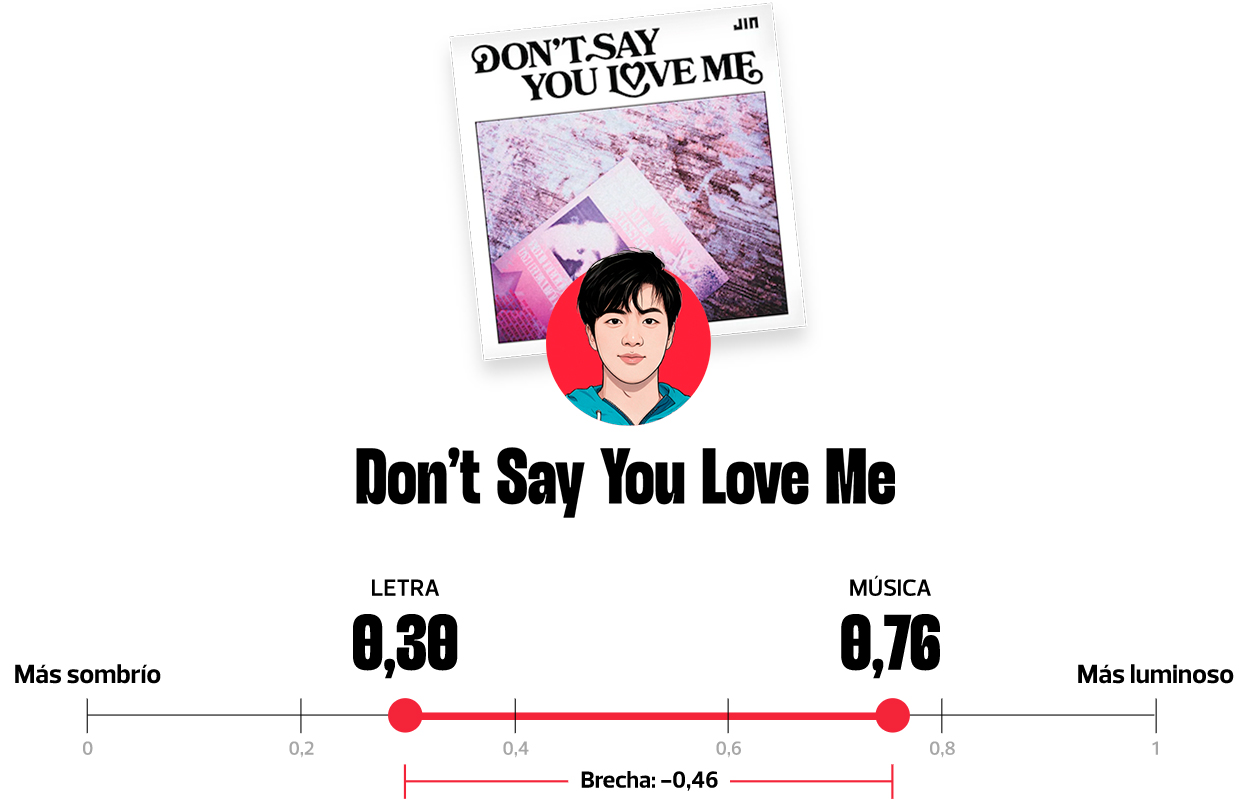
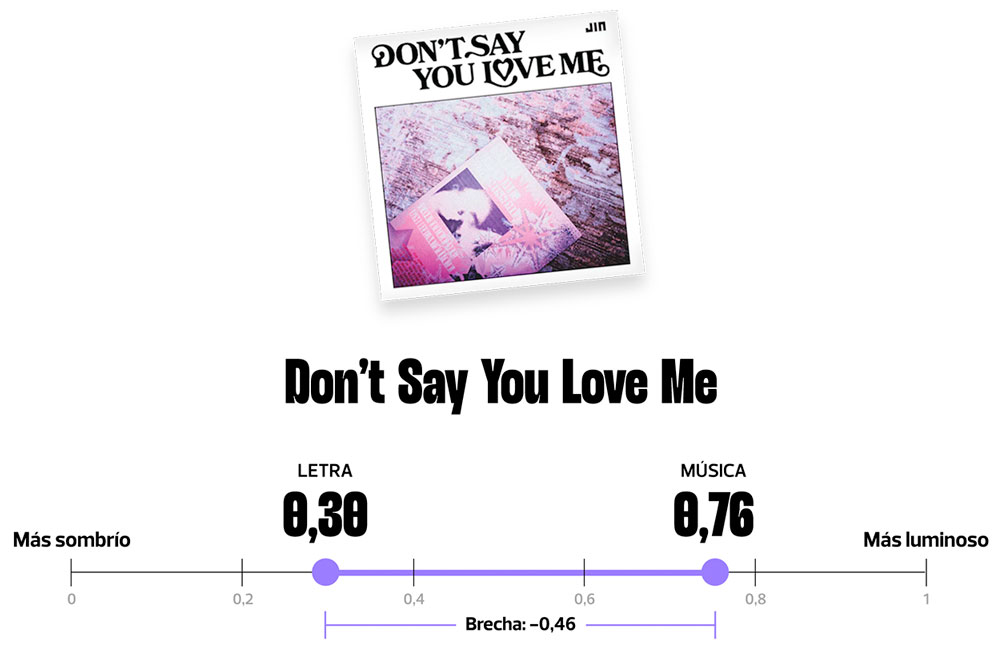
update

diff --git a/index-bts.html b/index-bts.html
@@ -539,18 +539,30 @@
                 <p>
                     En Don’t Say You Love Me, de Jin, la música suena mucho más luminosa que la letra. En nuestra escala, el sonido alcanza 0,76 y la letra 0,30. La diferencia entre ambos deja una brecha de −0,46.
                 </p>
+
+                <div class="desplegables-radiografia desplegable-sonido">
+                    <details class="desplegable">
+                        <summary>
+                            <span>¿Cómo lo medimos?</span>
+                            <svg class="desplegable-flecha" viewBox="0 0 24 24" aria-hidden="true"><path fill="none" stroke="currentColor" stroke-width="2.4" stroke-linecap="round" stroke-linejoin="round" d="M6 9l6 6 6-6"/></svg>
+                        </summary>
+                        <div class="desplegable-panel">
+                            <p>Para la música usamos valence de Spotify, que estima en una escala de 0 a 1 qué tan luminosa suena una pista. Para la letra aplicamos una clasificación semántica con IA en la misma escala. La brecha es la diferencia entre ambos valores: en este caso, 0,30 − 0,76 = −0,46. Un resultado negativo indica que la música fue clasificada como más luminosa que la letra.</p>
+                        </div>
+                    </details>
+                </div>
+
                 <img src="./img/bg-cancion-capas.jpg" alt="" width="100%" class="bg-cancion-capas">
                 <div class="box-disclaimer-lineal">
                     <p>
-                        La música resulta considerablemente <span class="red">más luminosa</span> que el tono detectado en su letra.
+                        Aquí está la tensión: la letra tiene un tono más sombrío y la música uno mucho más luminoso. <span class="lila">“Sombrío” indica menor luminosidad emocional, no una valoración negativa.</span>
                     </p>
                 </div>
-                <h6>¿Cómo lo medimos?</h6>
                 <!-- En escritorio se ven los 3 en línea (tal cual antes). En
                      móvil (≤560px) esto se vuelve un carrusel de a un ítem
                      con flechas: ver carousel-medida en css/styles.css y
                      js/carrusel-medida.js. -->
-                <div class="carousel-medida">
+                <div class="carousel-medida" style="display: none;">
                     <button class="carousel-arrow carousel-arrow--prev" type="button" aria-label="Ver medida anterior">
                         <svg viewBox="0 0 24 24" aria-hidden="true"><path fill="none" stroke="currentColor" stroke-width="2.4" stroke-linecap="round" stroke-linejoin="round" d="M15 6l-6 6 6 6"/></svg>
                     </button>
@@ -590,65 +602,18 @@
             </div>
             <div class="ctn-box-analisis-cancion">
                 <h4>
-                    <i></i>¿Es solo una canción?
+                    <i></i>¿Y en otras canciones?
                 </h4>
                 <p>
-                    <b>No.</b> Cuando ampliamos la comparación al conjunto de canciones para las que tenemos las dos mediciones, aparece un patrón más amplio.
+                    En las 10 canciones de 2017–2022 analizadas, la letra fue clasificada como más luminosa que la música. En 2023–2025, el patrón se divide: 18 de 31 canciones muestran esa misma dirección y 13 la contraria.
                 </p>
 
-                <div class="ctn-patron-amplio">
-                    <div class="patron-amplio">
-
-                        <div class="patron-periodo">
-                            <h5 class="patron-anios">2013&ndash;2022</h5>
-                            <p class="patron-brecha">
-                                Brecha promedio: +0,23
-                            </p>
-                            <div class="patron-track">
-                                <span class="patron-lbl">Música</span>
-                                <span class="patron-wrap" style="width:78%">
-                                    <span class="patron-dot patron-dot--start"></span>
-                                    <span class="patron-dot patron-dot--end"></span>
-                                </span>
-                                <span class="patron-lbl">Letra</span>
-                            </div>
-                            <p class="patron-n">n = 12 canciones</p>
-                        </div>
-
-                        <div class="patron-periodo">
-                            <h5 class="patron-anios">2023&ndash;2025</h5>
-                            <p class="patron-brecha">
-                                Brecha promedio: +0,04
-                            </p>
-                            <div class="patron-track">
-                                <span class="patron-lbl">Música</span>
-                                <span class="patron-wrap" style="width:14%">
-                                    <span class="patron-dot patron-dot--start"></span>
-                                    <span class="patron-dot patron-dot--end"></span>
-                                </span>
-                                <span class="patron-lbl">Letra</span>
-                            </div>
-                            <p class="patron-n">n = 35 canciones</p>
-                        </div>
-
-                    </div>
+                <div class="box-disclaimer-lineal">
+                    <p>
+                        El análisis incluye únicamente canciones en inglés para las que contamos con ambas mediciones. <span class="lila">Los resultados describen este corpus y no toda la discografía de BTS.</span>
+                    </p>
                 </div>
 
-                <p>
-                    <b>
-                        En este corpus, la brecha promedio se redujo alrededor de 83 %. La música y la letra aparecen mucho más alineadas en 2023–2025 que en el periodo anterior.
-                    </b>
-                </p>
-                <p>
-                     Un valor positivo indica que, en promedio, el tono de la letra fue clasificado como más luminoso que el sonido musical. La comparación incluye únicamente canciones para las que contamos con ambas mediciones; por eso describe este corpus y no toda la discografía de BTS.
-                </p>
-
-                <h6>
-                    ¿Cómo leer este resultado?
-                </h6>
-                <p>
-                    <b>Calculamos para cada canción la diferencia entre el tono textual y la valence musical</b>, y después comparamos el promedio de esa brecha entre periodos. Una brecha cercana a cero indica mayor coincidencia entre ambas mediciones.
-                </p>
             </div>
         </div>
 

diff --git a/css/styles.css b/css/styles.css
@@ -1256,7 +1256,7 @@ img { display: block; max-width: 100%; user-select: none; -webkit-user-drag: non
                     .desplegable summary::-webkit-details-marker{ display: none; }
                     .desplegable summary::marker{ display: none; content: ""; }
                     .desplegable-flecha{
-                        color: #5254BF;
+                        color: #000;
                         flex: 0 0 auto;
                         height: 16px;
                         transition: transform .25s var(--ease);
@@ -1324,8 +1324,8 @@ img { display: block; max-width: 100%; user-select: none; -webkit-user-drag: non
                             }
 
                         
-                    .desplegable-nota{
-                        
+                    .desplegable-sonido{
+                        max-width: 350px;
                     }
 
             @media (max-width: 560px){
@@ -1463,7 +1463,7 @@ img { display: block; max-width: 100%; user-select: none; -webkit-user-drag: non
                 max-width: 700px;
             }
             .box-disclaimer-lineal{
-                border: 3px solid #F42439;
+                border: 3px solid #9C7EFF;
                 border-radius: 10px;
                 box-sizing: border-box;
                 margin: 20px auto 40px;
@@ -1485,8 +1485,8 @@ img { display: block; max-width: 100%; user-select: none; -webkit-user-drag: non
                     margin: 0 auto;
                     padding: 20px 30px;
                 }
-                    .box-disclaimer-lineal p span.red{
-                        color: #F42439;
+                    .box-disclaimer-lineal p span.lila{
+                        color: #5254BF;
                     }
             .ctn-box-capas h6,
             .ctn-box-analisis-cancion h6,
